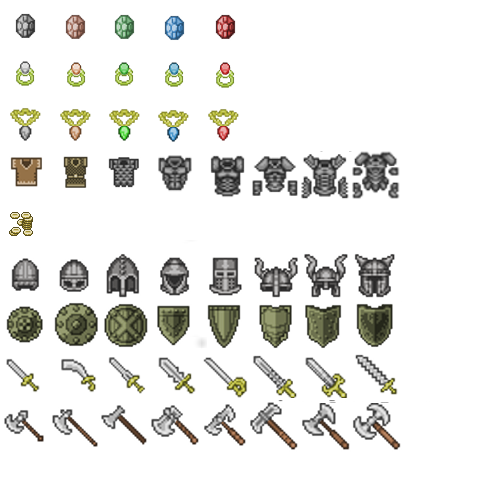
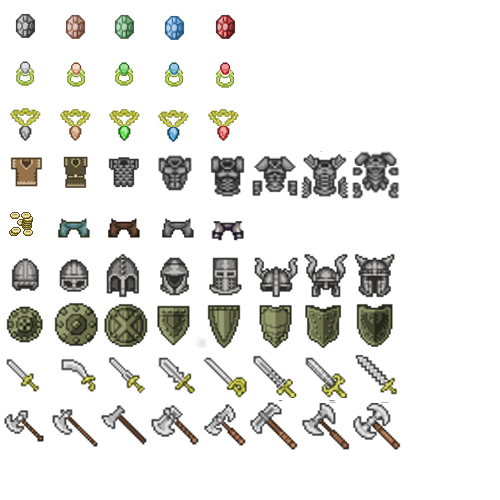
Restructured how the player's Inventory is stored.

Changed region(s): [[0.21, 0.42, 0.39, 0.48], [0.42, 0.42, 0.51, 0.48], [0.12, 0.42, 0.18, 0.48]]

diff --git a/Divine Right/Divine Right/Divine Right/InterfaceComponents/Components/InventoryDisplayComponent.cs b/Divine Right/Divine Right/Divine Right/InterfaceComponents/Components/InventoryDisplayComponent.cs
@@ -119,7 +119,7 @@ namespace Divine_Right.InterfaceComponents.Components
             }
 
             //Now draw the items
-            var inventoryitems = this.CurrentActor.Inventory.GetObjectsByGroup(enums.GetValue(ChosenCategory)).ToArray();
+            var inventoryitems = this.CurrentActor.Inventory.Inventory.GetObjectsByGroup(enums.GetValue(ChosenCategory)).Where(i => !i.IsEquipped).ToArray();
 
             //Clear all the items held in the boxes
             foreach (var item in row1Items)
@@ -184,7 +184,7 @@ namespace Divine_Right.InterfaceComponents.Components
                     case EquipmentLocation.BODY: backgroundItem = SpriteManager.GetSprite(LocalSpriteName.CHAIN_ARMOUR); break;
                     case EquipmentLocation.HEAD: backgroundItem = SpriteManager.GetSprite(LocalSpriteName.HELM_1); break;
                     case EquipmentLocation.MONEY: backgroundItem = SpriteManager.GetSprite(LocalSpriteName.COINS); break;
-                    case EquipmentLocation.NECK: backgroundItem = SpriteManager.GetSprite(LocalSpriteName.GREY_GEM_PENDANT); break;
+                    case EquipmentLocation.LEGS: backgroundItem = SpriteManager.GetSprite(LocalSpriteName.PLATE_LEGGINGS); break;
                     case EquipmentLocation.RING1: backgroundItem = SpriteManager.GetSprite(LocalSpriteName.GREY_GEM_RING); break;
                     case EquipmentLocation.RING2: backgroundItem = SpriteManager.GetSprite(LocalSpriteName.GREY_GEM_RING); break;
                     case EquipmentLocation.SHIELD: backgroundItem = SpriteManager.GetSprite(LocalSpriteName.SHIELD_8); break;
@@ -370,10 +370,10 @@ namespace Divine_Right.InterfaceComponents.Components
             int right = locationX + 455;
 
             equipmentRectangles.Add(new EquippedItemRectangle { Location = EquipmentLocation.HEAD, Rect = new Rectangle(middle, locationY + 0, 40, 40) });
-          //  equipmentRectangles.Add(new EquippedItemRectangle { Location = EquipmentLocation.NECK, Rect = new Rectangle(middle, locationY + 45, 40, 40) });
             equipmentRectangles.Add(new EquippedItemRectangle { Location = EquipmentLocation.BODY, Rect = new Rectangle(middle, locationY + 45, 40, 40) });
             equipmentRectangles.Add(new EquippedItemRectangle { Location = EquipmentLocation.WEAPON, Rect = new Rectangle(left, locationY + 45, 40, 40) });
-            equipmentRectangles.Add(new EquippedItemRectangle { Location = EquipmentLocation.SHIELD, Rect = new Rectangle(right, locationY + 45, 40, 40) });           
+            equipmentRectangles.Add(new EquippedItemRectangle { Location = EquipmentLocation.SHIELD, Rect = new Rectangle(right, locationY + 45, 40, 40) });
+            equipmentRectangles.Add(new EquippedItemRectangle { Location = EquipmentLocation.LEGS, Rect = new Rectangle(middle, locationY + 90, 40, 40) });
             equipmentRectangles.Add(new EquippedItemRectangle { Location = EquipmentLocation.RING1, Rect = new Rectangle(left, locationY + 90, 40, 40) });
             equipmentRectangles.Add(new EquippedItemRectangle { Location = EquipmentLocation.RING2, Rect = new Rectangle(right, locationY + 90, 40, 40) });
 

diff --git a/Divine Right/Objects/ActorHandling/ActorInventory.cs b/Divine Right/Objects/ActorHandling/ActorInventory.cs
@@ -1,0 +1,37 @@
+using System;
+using System.Collections.Generic;
+using System.Linq;
+using System.Text;
+using DRObjects.DataStructures;
+using DRObjects.Items.Archetypes.Local;
+using DRObjects.Enums;
+
+namespace DRObjects.ActorHandling
+{
+    /// <summary>
+    /// Holds data on the actor's entire inventory, including money and items which are equipped.
+    /// </summary>
+    [Serializable]
+    public class ActorInventory
+    {
+        /// <summary>
+        /// The List of items that this actor is holding
+        /// </summary>
+        public GroupedList<InventoryItem> Inventory { get; set; }
+
+        /// <summary>
+        /// How much money this actor has
+        /// </summary>
+        public int TotalMoney { get; set; }
+
+        public Dictionary<EquipmentLocation,EquippedItem> EquippedItems { get; set; }
+
+        public ActorInventory()
+        {
+            Inventory = new GroupedList<InventoryItem>();
+            TotalMoney = 0;
+            EquippedItems = new Dictionary<EquipmentLocation, EquippedItem>();
+        }
+
+    }
+}

diff --git a/Divine Right/Objects/Graphics/SpriteManager.cs b/Divine Right/Objects/Graphics/SpriteManager.cs
@@ -616,6 +616,11 @@ namespace DRObjects.Graphics
             AddLocalSprite(LocalSpriteName.HELM_7, INVENTORYITEMS, 6, 5);
             AddLocalSprite(LocalSpriteName.HELM_8, INVENTORYITEMS, 7, 5);
 
+            AddLocalSprite(LocalSpriteName.PADDED_LEGGINGS, INVENTORYITEMS, 1, 4);
+            AddLocalSprite(LocalSpriteName.LEATHER_LEGGINGS,INVENTORYITEMS,2,4);
+            AddLocalSprite(LocalSpriteName.CHAIN_LEGGINGS, INVENTORYITEMS, 3, 4);
+            AddLocalSprite(LocalSpriteName.PLATE_LEGGINGS, INVENTORYITEMS, 4, 4);
+
             AddLocalSprite(LocalSpriteName.SHIELD_1, INVENTORYITEMS, 0, 6);
             AddLocalSprite(LocalSpriteName.SHIELD_2, INVENTORYITEMS, 1, 6);
             AddLocalSprite(LocalSpriteName.SHIELD_3, INVENTORYITEMS, 2, 6);

diff --git a/Divine Right/Objects/Actor.cs b/Divine Right/Objects/Actor.cs
@@ -17,10 +17,7 @@ namespace DRObjects
     /// </summary>
     public class Actor
     {
-        /// <summary>
-        /// The List of items that this actor is holding
-        /// </summary>
-        public GroupedList<InventoryItem> Inventory { get; set; }
+        public ActorInventory Inventory { get; set; }
         /// <summary>
         /// If its an enemy, holds some auxillary data
         /// </summary>
@@ -123,7 +120,7 @@ namespace DRObjects
             this.MissionStack = new Stack<ActorMission>();
             this.CombatStance = ActorStance.NEUTRAL;
             this.IsAlive = true;
-            this.Inventory = new GroupedList<InventoryItem>();
+            this.Inventory = new ActorInventory();
         }
 
     }

diff --git a/Divine Right/Objects/Items/Archetypes/Local/InventoryItem.cs b/Divine Right/Objects/Items/Archetypes/Local/InventoryItem.cs
@@ -117,7 +117,7 @@ namespace DRObjects.Items.Archetypes.Local
                     {
                         //take it
                         this.Coordinate = new MapCoordinate(999, 999, 0, MapTypeEnum.CONTAINER); //Dummy - this will cause the block to reject and delete it
-                        actor.Inventory.Add(this.Category,this);
+                        actor.Inventory.Inventory.Add(this.Category,this);
                         this.InInventory = true;
 
                         return new ActionFeedback[1] { new CurrentLogFeedback(InterfaceSpriteName.MAN,Color.Black,"You pick up the " + this.Name) };

diff --git a/Divine Right/Objects/ActorHandling/EquippedItem.cs b/Divine Right/Objects/ActorHandling/EquippedItem.cs
@@ -1,0 +1,19 @@
+using System;
+using System.Collections.Generic;
+using System.Linq;
+using System.Text;
+using DRObjects.Items.Archetypes.Local;
+using DRObjects.Enums;
+
+namespace DRObjects.ActorHandling
+{
+    [Serializable]
+    /// <summary>
+    /// An item which is equipped at a particular location
+    /// </summary>
+    public class EquippedItem
+    {
+        public InventoryItem Item { get; set; }
+        public EquipmentLocation Location { get; set; }
+    }
+}

diff --git a/Divine Right/Objects/Graphics/LocalSpriteName.cs b/Divine Right/Objects/Graphics/LocalSpriteName.cs
@@ -513,6 +513,10 @@ namespace DRObjects.Graphics
         AXE_6,
         AXE_7,
         AXE_8,
+        PLATE_LEGGINGS,
+        CHAIN_LEGGINGS,
+        LEATHER_LEGGINGS,
+        PADDED_LEGGINGS,
 
     }
 }

diff --git a/Divine Right/Objects/Enums/EquipmentLocation.cs b/Divine Right/Objects/Enums/EquipmentLocation.cs
@@ -14,7 +14,7 @@ namespace DRObjects.Enums
         BODY,
         WEAPON,
         SHIELD,
-        NECK,
+        LEGS,
         RING1,
         RING2,
         MONEY
